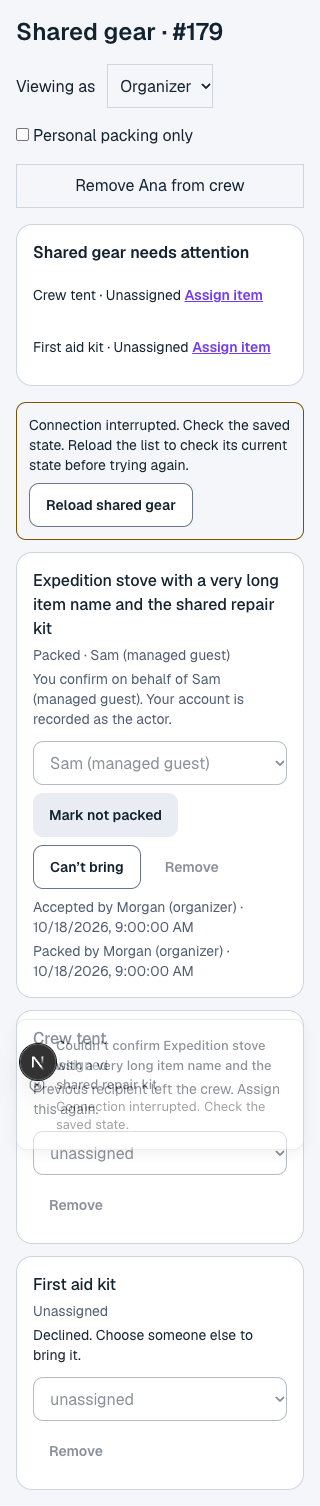
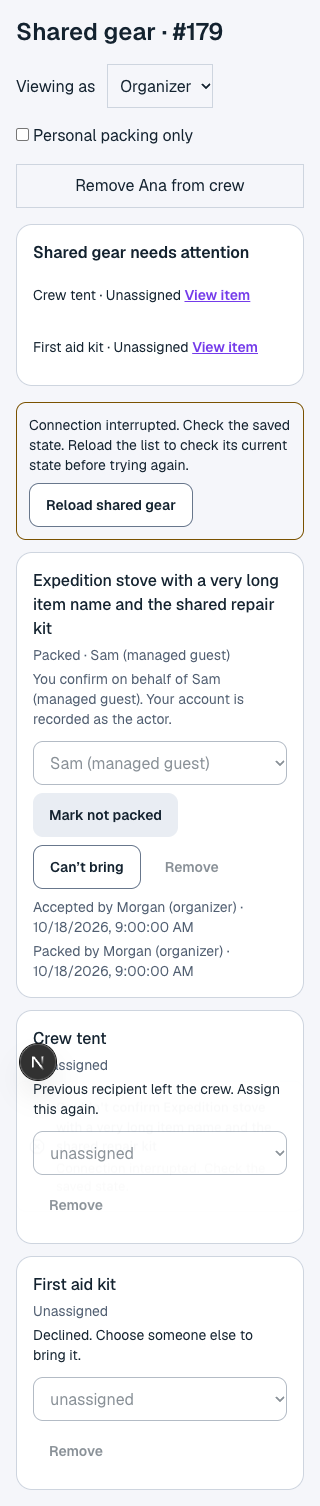
Fix shared gear lock ordering and refresh recovery after review

Changed region(s): [[0.0938, 0.6866, 0.8438, 0.749], [0.5938, 0.1873, 0.8438, 0.2497]]

diff --git a/src/app/trips/[id]/gear/page.tsx b/src/app/trips/[id]/gear/page.tsx
@@ -26,6 +26,7 @@ export default function GroupGearPage({ params }: { params: Promise<{ id: string
   const [description, setDescription] = useState("");
   const [assignee, setAssignee] = useState<string>("");
   const [adding, setAdding] = useState(false);
+  const [addRecovery, setAddRecovery] = useState<string | null>(null);
   const userId = useUserId();
   const organizer = data?.trip.owner_user_id === userId;
   const members = data?.members ?? [];
@@ -46,10 +47,13 @@ export default function GroupGearPage({ params }: { params: Promise<{ id: string
         description: item,
         assignee_member_id: assignee || (organizer ? null : me?.id),
       });
+      if (!await reload()) {
+        setAddRecovery(`${item} was saved, but the latest list couldn't be loaded. Reload shared gear to confirm it before adding another item.`);
+        return;
+      }
       setDescription("");
       setAssignee("");
       creation.current = null;
-      await reload();
     } catch (err) {
       // The form keeps the item and who's bringing it, so Add can be tried again.
       toast.error(`Couldn't add ${item}`, { description: errorMessage(err) });
@@ -90,10 +94,23 @@ export default function GroupGearPage({ params }: { params: Promise<{ id: string
               <label htmlFor="add-gear-description" className={cn(sectionLabelClassName, "mb-2 block")}>
                 Add gear
               </label>
+              {addRecovery && <div role="alert" className="mb-3 break-words text-sm">
+                <p>{addRecovery}</p>
+                <Button variant="outline" className="mt-2" loading={adding} onClick={async () => {
+                  if (adding) return;
+                  setAdding(true);
+                  try {
+                    if (await reload()) {
+                      setAddRecovery(null); setDescription(""); setAssignee(""); creation.current = null;
+                    }
+                  } finally { setAdding(false); }
+                }}>Reload added item</Button>
+              </div>}
               <div className="flex flex-col gap-2 sm:flex-row">
                 <Input
                   id="add-gear-description"
                   type="text"
+                  disabled={adding || !!addRecovery}
                   value={description}
                   onChange={(e) => setDescription(e.target.value)}
                   placeholder="Tent, stove, first aid…"
@@ -101,6 +118,7 @@ export default function GroupGearPage({ params }: { params: Promise<{ id: string
                   className="sm:flex-1"
                 />
                 <select
+                  disabled={adding || !!addRecovery}
                   value={assignee || (organizer ? "" : me?.id ?? "")}
                   onChange={(e) => setAssignee(e.target.value)}
                   aria-label="Who's bringing it"
@@ -119,7 +137,7 @@ export default function GroupGearPage({ params }: { params: Promise<{ id: string
                   type="button"
                   variant="secondary"
                   onClick={addGear}
-                  disabled={!description.trim() || adding}
+                  disabled={!description.trim() || adding || !!addRecovery}
                 >
                   {adding ? <Loader2 className="animate-spin" /> : <Plus />}
                   Add

diff --git a/src/app/trips/[id]/pack/page.test.tsx b/src/app/trips/[id]/pack/page.test.tsx
@@ -6,6 +6,7 @@ import { toast } from "sonner";
 import { fakeTripApi, reply, sentBodies, TRIP } from "@/test/tripApi";
 import { buildPackingListFromDays } from "@/lib/packingList";
 import { buildTouringEquipment } from "@/lib/touring-equipment";
+import type { TripGroupGear } from "@/types/trips";
 import type { TripDayCoverage } from "@/types/trip-coverage";
 import type { PackingCheckChange, PackingChecks, PackingItem, TripPackResponse } from "@/types/trip-packing";
 import PackListPage from "./page";
@@ -261,6 +262,41 @@ describe("Packing from saved outfits", () => {
     expect(reads).toBe(2);
     await act(async () => { releaseSave(); });
     expect(reads).toBe(3);
+    expect(screen.getByRole("group", { name: "How many Ski shell" })).toHaveTextContent("2");
+  });
+
+  it.each([false, true])("waits for personal saves after accepting shared gear, then reports only a real read failure (%s)", async (failRead) => {
+    let releaseSave = () => {};
+    let reads = 0;
+    let gear: TripGroupGear = { id: "stove", trip_id: TRIP.id, description: "Stove", assignee_member_id: "member-you", sort_order: 0, created_at: TRIP.created_at, revision: "pending" };
+    const fetchMock = fakeTripApi({
+      [PACK]: () => {
+        reads += 1;
+        if (reads === 3 && failRead) return reply(503, { error: "Packing read failed" });
+        return reply(200, pack([saved("2026-10-10")], { items: [{ ...SHELL, quantity: reads > 2 ? 2 : 1 }], groupGear: [gear] }));
+      },
+      [CHANGE]: () => new Promise((resolve) => { releaseSave = () => resolve(reply(200, { manual: [], quantities: { [SHELL.key]: 2 } })); }),
+      "PATCH /api/v1/trips/trip-1/gear/stove": () => {
+        gear = { ...gear, revision: "accepted", accepted_at: TRIP.created_at, accepted_by: "user-1" };
+        return reply(200, { gear });
+      },
+    });
+    vi.stubGlobal("fetch", fetchMock);
+    const user = userEvent.setup();
+    await renderPage();
+    await user.click(await screen.findByRole("button", { name: "One more Ski shell" }));
+    await user.click(screen.getByRole("button", { name: "Accept Stove" }));
+    await waitFor(() => expect(reads).toBe(2));
+    const shared = screen.getByRole("region", { name: "Group gear (yours)" });
+    expect(within(shared).queryByRole("alert")).not.toBeInTheDocument();
+    expect(within(shared).getByRole("button", { name: "Accept Stove" })).toHaveAttribute("aria-disabled", "true");
+    await act(async () => releaseSave());
+    if (failRead) {
+      expect(await within(shared).findByRole("alert")).toHaveTextContent("Saved, but the latest list couldn't be loaded");
+      await user.click(within(shared).getByRole("button", { name: "Reload shared gear" }));
+    }
+    expect(await within(shared).findByRole("button", { name: "Mark packed Stove" })).not.toHaveAttribute("aria-disabled");
+    expect(within(shared).queryByRole("alert")).not.toBeInTheDocument();
     expect(screen.getByRole("group", { name: "How many Ski shell" })).toHaveTextContent("2");
   });
 

diff --git a/src/app/trips/[id]/gear/page.test.tsx b/src/app/trips/[id]/gear/page.test.tsx
@@ -97,6 +97,36 @@ describe("Group gear page", () => {
     expect(screen.getByText("No group gear yet.")).toBeInTheDocument();
   });
 
+  it("keeps a saved addition blocked after a failed reload, then recovers by reading without adding again", async () => {
+    let reads = 0;
+    let created = false;
+    const api = fakeTripApi({
+      "GET /api/v1/trips/trip-1": () => {
+        reads += 1;
+        if (reads === 2 || reads === 3) return reply(503, { error: "Read failed" });
+        return reply(200, tripFull({ gear: created ? [{ ...TENT, description: "Stove" }] : [] }));
+      },
+      "POST /api/v1/trips/trip-1/gear": () => { created = true; return reply(201, { gear: { ...TENT, description: "Stove" } }); },
+    });
+    vi.stubGlobal("fetch", api);
+    const user = userEvent.setup();
+    await renderPage();
+    const input = await screen.findByPlaceholderText("Tent, stove, first aid…");
+    await user.type(input, "Stove");
+    await user.click(screen.getByRole("button", { name: "Add" }));
+    expect(await screen.findByText(/Stove was saved, but the latest list couldn't be loaded/)).toBeInTheDocument();
+    expect(input).toHaveValue("Stove");
+    expect(input).toBeDisabled();
+    expect(screen.getByRole("button", { name: "Add" })).toBeDisabled();
+    await user.click(screen.getByRole("button", { name: "Reload added item" }));
+    expect(screen.getByRole("button", { name: "Add" })).toBeDisabled();
+    await user.click(screen.getByRole("button", { name: "Reload added item" }));
+    expect(await screen.findByText("Stove")).toBeInTheDocument();
+    expect(input).toHaveValue("");
+    expect(input).toBeEnabled();
+    expect(sentBodies(api, "POST /api/v1/trips/trip-1/gear")).toHaveLength(1);
+  });
+
   it("says so when a new assignee can't be saved", async () => {
     vi.stubGlobal(
       "fetch",

diff --git a/src/app/trips/[id]/pack/page.tsx b/src/app/trips/[id]/pack/page.tsx
@@ -71,6 +71,7 @@ export default function PackListPage({ params }: { params: Promise<{ id: string 
   // Saves in flight and finished, so a list read while one saved isn't shown
   // over it; and whether to read the list again once they're done.
   const saves = useRef({ inFlight: 0, finished: 0, refreshAfter: false });
+  const afterSaves = useRef(new Set<() => void>());
 
   useEffect(() => {
     let cancelled = false;
@@ -103,8 +104,11 @@ export default function PackListPage({ params }: { params: Promise<{ id: string 
         const finished = saves.current.finished;
         const body = await fetchPackList(id);
         if (saves.current.inFlight > 0) {
-          saves.current.refreshAfter = true;
-          return false;
+          // A successful read made during a personal save is provisional.
+          // Keep this refresh pending until saves settle, then read again;
+          // shared gear must not mistake a deferred read for a failed save.
+          await new Promise<void>((resolve) => afterSaves.current.add(resolve));
+          continue;
         }
         if (saves.current.finished === finished) {
           setData(body);
@@ -127,6 +131,10 @@ export default function PackListPage({ params }: { params: Promise<{ id: string 
     } finally {
       saves.current.inFlight -= 1;
       saves.current.finished += 1;
+      if (saves.current.inFlight === 0) {
+        for (const resolve of afterSaves.current) resolve();
+        afterSaves.current.clear();
+      }
       if (saves.current.inFlight === 0 && saves.current.refreshAfter) {
         saves.current.refreshAfter = false;
         void refresh();

diff --git a/src/components/trips/SharedGear.test.tsx b/src/components/trips/SharedGear.test.tsx
@@ -84,8 +84,8 @@ describe("Shared equipment controls", () => {
 
   it("returns declined and removed-member items to attention with direct links and no Ready verdict", () => {
     render(<SharedGearAttention tripId={TRIP.id} gear={[{ ...item, assignee_member_id: null }, { ...item, id: "tent", description: "Tent" }, { ...item, id: "packed", accepted_at: TRIP.created_at, packed_at: TRIP.created_at }]} />);
-    expect(screen.getByRole("link", { name: "Assign item" })).toHaveAttribute("href", "/trips/trip-1/gear#shared-stove");
-    expect(screen.getByRole("link", { name: "Review request" })).toHaveAttribute("href", "/trips/trip-1/gear#shared-tent");
+    expect(screen.getByRole("link", { name: "View item" })).toHaveAttribute("href", "/trips/trip-1/gear#shared-stove");
+    expect(screen.getByRole("link", { name: "View request" })).toHaveAttribute("href", "/trips/trip-1/gear#shared-tent");
     expect(screen.queryByText(/Ready/)).not.toBeInTheDocument();
     expect(screen.getAllByRole("listitem")).toHaveLength(2);
   });

diff --git a/src/components/trips/SharedGear.tsx b/src/components/trips/SharedGear.tsx
@@ -110,7 +110,7 @@ export function SharedGearAttention({ tripId, gear }: { tripId: string; gear: Tr
   return <Card><h2 className="text-base font-semibold">Shared gear needs attention</h2>
     <ul className="mt-2 space-y-2">{unresolved.map((g) => <li key={g.id} className="break-words text-sm">
       {g.description} · {g.assignee_member_id ? "Awaiting acceptance" : "Unassigned"}{" "}
-      <Link className="inline-flex min-h-11 items-center font-semibold text-primary underline" href={`/trips/${tripId}/gear#shared-${g.id}`}>{g.assignee_member_id ? "Review request" : "Assign item"}</Link>
+      <Link className="inline-flex min-h-11 items-center font-semibold text-primary underline" href={`/trips/${tripId}/gear#shared-${g.id}`}>{g.assignee_member_id ? "View request" : "View item"}</Link>
     </li>)}</ul>
   </Card>;
 }

diff --git a/docs/trip-shared-gear.md b/docs/trip-shared-gear.md
@@ -20,9 +20,9 @@ Existing assignments start awaiting acceptance after migration; they have no inv
 
 The existing shared-item UUID is the stable identity, including when two items have the same description. `assigned_at/by`, `accepted_at/by` and `packed_at/by` are separate fields. `events` records each new mutation's action, actor, timestamp and recipient; it keeps the previous recipient for declines and member removals. Events belong to the item and are removed when the item or trip is deleted. Account deletion/anonymization must include these actor IDs when #139 defines that workflow.
 
-Every mutation sends the last observed `revision`. `update_trip_shared_gear` locks the trip and item, checks current membership/recipient permissions, compares the revision and writes atomically. A stale assignment, acceptance, packing or deletion receives `409`, with no write. The API supplies the authenticated Clerk user ID; payload actor claims do not control attribution. A missing/departed recipient cannot confirm. Concurrent edits to different items serialize without overwriting one another.
+Every mutation sends the last observed `revision`. `update_trip_shared_gear` locks the trip, then involved members in UUID order, then the item; it checks current membership/recipient permissions, compares the revision and writes atomically. Member locks use `FOR SHARE` so a non-key status change also waits. The member-removal trigger already holds its member row and never takes a trip lock; it updates gear in the same member-before-gear order. The RPC re-reads the item and rechecks authorization after waiting, so a completed removal cannot be undone by a stale confirmation. A stale assignment, acceptance, packing or deletion receives `409`, with no write. The API supplies the authenticated Clerk user ID; payload actor claims do not control attribution. A missing/departed recipient cannot confirm. Concurrent edits to different items serialize without overwriting one another.
 
-The UI keeps confirmed state during saves, announces successful saves, and disables conflicting actions until the saved list loads. Failure, timeout/network loss, conflict or a failed read offers **Reload shared gear** before another deliberate action. It does not silently replay a stale confirmation. Reload/Refresh retrieves server state, including a write whose response was lost. New-item retries retain one creation UUID, avoiding duplicate items after a lost creation response. Reloading the page abandons unsaved intent. There is no offline queue, notification delivery, reminder or crew score.
+The UI keeps confirmed state during saves, announces successful saves, and disables conflicting actions until the saved list loads. Failure, timeout/network loss, conflict or a failed read offers **Reload shared gear** before another deliberate action. It does not silently replay a stale confirmation. Reload/Refresh retrieves server state, including a write whose response was lost. New-item retries retain one creation UUID, avoiding duplicate items after a lost creation response. If creation is confirmed but the following reload fails, the form retains its input, blocks further additions, and offers Reload added item; recovery only reads, without creating again. A shared-gear refresh that overlaps personal packing saves waits for those saves and reads again, rather than treating a deferred read as a failure. Reloading the page abandons unsaved intent. There is no offline queue, notification delivery, reminder or crew score.
 
 `POST /api/v1/trips/:id/gear` accepts `{id, description, assignee_member_id}`. `PATCH /gear/:gearId` accepts `{action, expected_revision, assignee_member_id?}` where action is `assign`, `accept`, `decline`, `pack` or `unpack`. `DELETE` requires `{expected_revision}`. `GET /pack` now returns `groupGear: TripGroupGear[]`, replacing description strings. Actor/timestamp/revision fields are written by the database. Failed shared-gear reads fail the trip/packing load instead of appearing as an empty confirmed list.
 
@@ -31,3 +31,5 @@ The UI keeps confirmed state during saves, announces successful saves, and disab
 Apply `20261018131917_trip_shared_gear_responsibility.sql` before deploying the API/UI. It extends the existing table without adding gear rows, uses `SECURITY INVOKER`, keeps RLS enabled, denies anon/authenticated table/RPC access, and grants RPC execution only to `service_role`. It follows the API-only Clerk/service-role model from migration 014. The RPC performs authorization again inside the transaction. A compatibility trigger also clears confirmations if an older deployed API directly changes assignment/name without a new revision during rollout; those legacy writes have no known actor and are recorded accordingly.
 
 The migration and actual RPC are tested in embedded Postgres, including ACL/RLS checks. No production database was modified. Apply and deploy remain rollout steps. Browser evidence, automated results and the remaining device/authenticated acceptance limits are in [the QA record](qa/179-shared-gear/README.md).
+
+Native caller audit: the in-repository iOS Capacitor shell and macOS WKWebView load the shared web UI. Searching their sources found no independent gear create/delete API calls using the older payloads. This is a source audit, not an authenticated native-device acceptance claim.

diff --git a/docs/qa/179-shared-gear/README.md b/docs/qa/179-shared-gear/README.md
@@ -19,7 +19,7 @@ Evidence: [desktop](1280.png), [390px](390.png), [320px](320.png), [failed save 
 
 - Production `npm run build` with Turbopack passed, including TypeScript and all 37 static pages.
 - `npm run lint` passed.
-- Full suite with bundled Node 24: **166 files / 2,429 tests pass**. The suite emits existing jsdom navigation warnings; no tests failed.
+- Full suite with bundled Node 24: **166 files / 2,432 tests pass**. The suite emits existing jsdom navigation warnings; no tests failed.
 - Postgres tests execute the actual migration/RPC: separate acceptance and packing, actor/timestamps/events, self-assignment, guest-only organizer override, decline, reset on reassignment, stale/ABA revisions, simultaneous edits, removal/left membership, response-loss creation retry, outsider/cross-trip/left-member denial, deletion conflicts, legacy API invalidation, and anon/authenticated denial with service-role execution.
 - API tests cover authenticated actor and URL identity, invalid/missing revisions, malformed requests, failure/conflict status codes and current personal assignment filtering with stable IDs. Failed gear reads are not shown as an empty confirmed list.
 - UI/page tests cover pending, confirmed and failed saves, reload recovery, permission visibility, second mounts, personal/shared separation and attention links.
@@ -27,3 +27,21 @@ Evidence: [desktop](1280.png), [390px](390.png), [320px](320.png), [failed save 
 ## Acceptance limits
 
 This establishes local implementation, keyboard/browser layout, accessible markup and simulated cross-context recovery. It does **not** establish authenticated production persistence, committed cross-account behavior, an iPhone VoiceOver walkthrough, or an organizer usability study. Those require the migration/deployment and real accounts/devices. Screen-reader announcements were implemented with status/alert regions; a native screen-reader/device result is not claimed. Validate the coordination step with an organizer before expanding into reminders or scoring, as the issue requests.
+
+## PR review follow-up
+
+The original migration's lock inversion was reproduced against a disposable local PostgreSQL cluster using independent connections: confirmation versus member deletion failed with `40P01` (deadlock). The corrected migration passes all six scenarios in [lock-order.mjs](lock-order.mjs): acceptance versus deletion, reassignment versus deletion of either current or target recipient, acceptance/reassignment versus a non-key departure update, and confirmation first followed by deletion. Expected stale/permission/recipient errors remain explicit; no test deadlocks or restores a removed recipient's confirmation. PGlite remains the regular migration/state/ACL suite; the separate PostgreSQL runner verifies actual inter-session locks.
+
+To repeat, supply a disposable **local** PostgreSQL cluster and a `pg` client available to Node. The runner creates and drops a temporary database, and initializes missing Supabase role names on that cluster. It refuses non-local hosts. `SWTTR_PG_CLIENT_MODULE` may point to an externally installed `pg/lib/index.js` so no application dependency is needed:
+
+```sh
+SWTTR_TEST_POSTGRES_URL=postgresql://postgres@127.0.0.1:55479/postgres \
+SWTTR_PG_CLIENT_MODULE=file:///absolute/path/to/pg/lib/index.js \
+node docs/qa/179-shared-gear/lock-order.mjs
+```
+
+Set `SWTTR_SHARED_GEAR_MIGRATION` to a saved original migration to reproduce the pre-fix failure. The verification used PostgreSQL binaries and `pg` installed under `/tmp`, with no production connection.
+
+Packing-page regressions now cover shared acceptance while a personal quantity save is pending. Controls remain busy until the personal save settles and a fresh read confirms shared state; a real failure in that final read still offers recovery. A creation-page regression covers confirmed creation followed by repeated failed reads: it retains the form, blocks duplicate additions, and clears only after a successful recovery read. Attention links are informational (View request/View item) for crew members who cannot change another person's request.
+
+The in-repository iOS/macOS source audit found web-view shells using this web UI and no separate gear API callers to migrate. Production/native-device acceptance limits above remain unchanged.
